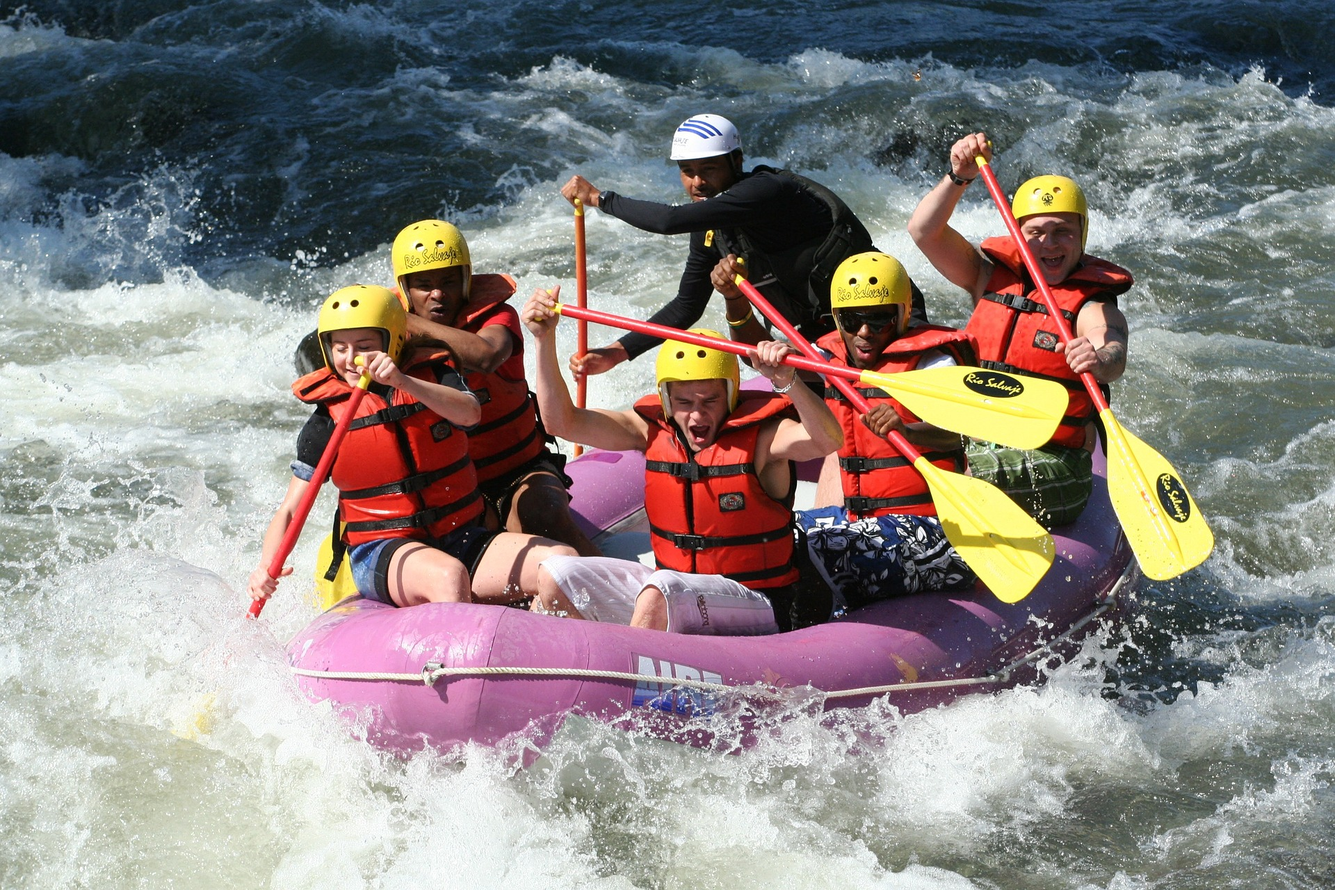
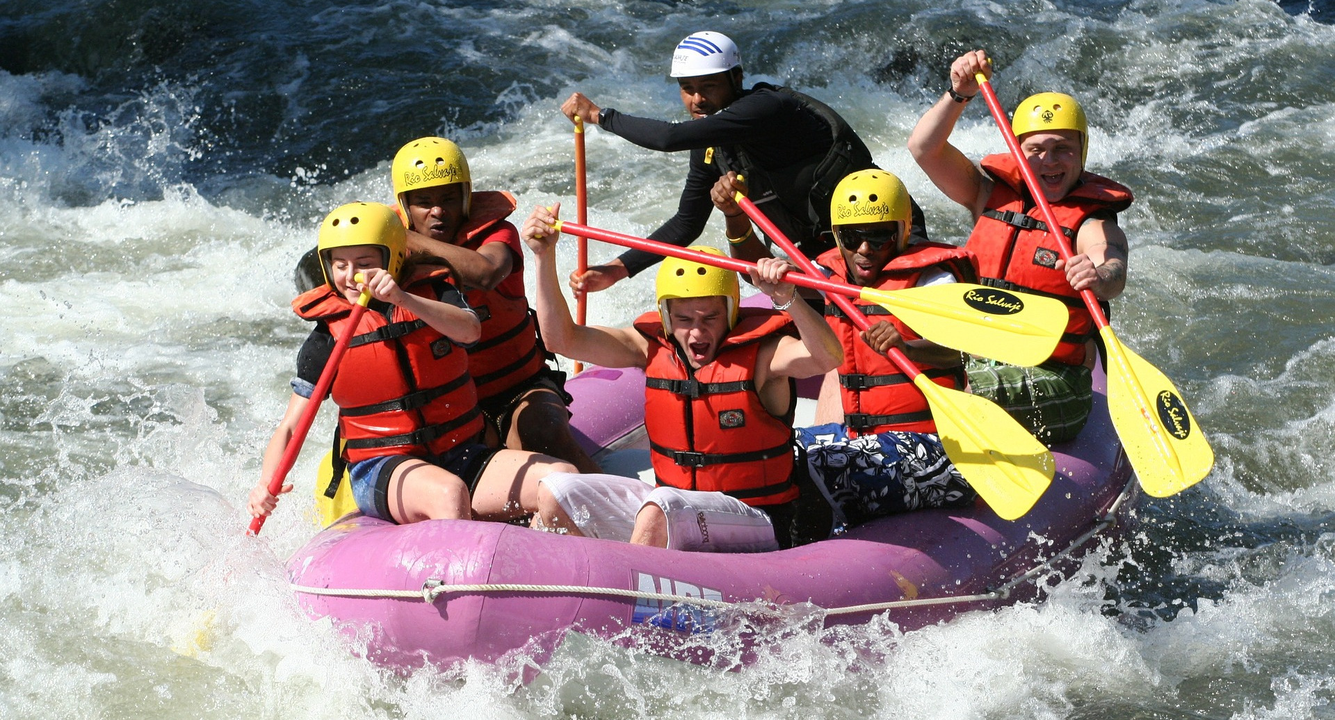
a

diff --git a/world/index.html b/world/index.html
@@ -4,7 +4,7 @@
 <head>
     <meta charset="UTF-8">
     <meta name="viewport" content="width=device-width, initial-scale=1.0">
-    <title>COVID-19  Verbreitung</title>
+    <title>COVID-19 Verbreitung</title>
 
     <link href="https://fonts.googleapis.com/css?family=Open+Sans" rel="stylesheet">
     <link rel="stylesheet" href="https://cdnjs.cloudflare.com/ajax/libs/font-awesome/5.11.2/css/all.min.css">
@@ -17,7 +17,6 @@
     <link rel="stylesheet" href="main.css">
     <script src="data.js"></script>
     <script defer src="main.js"></script>
-   
 </head>
 
 <body>
@@ -25,8 +24,10 @@
         <h2><i class="fas fa-map-marked"></i> COVID-19 Verbreitung <span id="datum"></span></h2>
         <nav>
             <p>
-                <i class="fab fa-github"></i> <a href="https://github.com/webmapping/csaw9279.github.io/world/index.html">Source</a> |
-                <i class="fas fa-download"></i> <a href="https://github.com/CSSEGISandData/COVID-19">COVID-Data</a>
+                <i class="fab fa-github"></i> <a href="https://github.com/webmapping/webmapping.github.io/tree/master/world">Source</a> |
+                <i class="fas fa-download"></i> <a href="https://github.com/CSSEGISandData/COVID-19">COVID-Data</a> |
+                <i class="fas fa-podcast"></i> <a href="https://brankej.github.io/projects/covid-19/">Live</a> |
+                <i class="fab fa-readme"></i> <a href="howto">HOWTO</a>
             </p>
         </nav>
     </header>

diff --git a/projf/index.html b/projf/index.html
@@ -25,6 +25,7 @@
 <body>
 
     <!-- navigationsleiste -->
+
     <div class="Navigationsleiste">
         <ul>
             <li style="font-weight: bold;"><a href="index.html">Rafting Tirol</a></li>
@@ -37,7 +38,7 @@
 
 
       <div style="text-align: right;">
-        <img src="images/header.jpg" style="width:100%;height: 701px; position: static;">
+        <img src="images/header.jpg" style="width:100%;height: 100%; position: static;">
         <div id="quelle">Quelle Bild: <a href="https://pixabay.com/de/photos/rafting-wildwasser-herausforderung-661716">Pixabay</a> </div>
       </div>
 
@@ -143,7 +144,7 @@
             </div>
         </div>
 
-        <div class="clearfix"></div>
+        
 
         <div class="responsive">
             <div class="gallery">
@@ -174,14 +175,14 @@
 
         <div class="responsive">
             <div class="gallery">
-                <a target="_blank" href="images/imgh.jpg">
+                <a target="_blank" href="images/imgah.jpg">
                     <img src="images/imgh.jpg" alt="Stubaital4" width="600" height="400">
                 </a>
                 <!-- <div class="desc">Add a description of the image here</div> -->
             </div>
         </div>
 
-        <div class="clearfix"></div>
+       
 
 
 

diff --git a/projf/map.html b/projf/map.html
@@ -47,7 +47,7 @@
 
 
 <div style="text-align: right;">
-    <img src="images/mapimage.jpg" style="width:100%;height: 600px; position: static;">
+    <img src="images/mapimage.jpg" style="width:100%;height: 100%; position: static;">
     <div id="quelle">Quelle Bild: <a href="https://pixabay.com/de/photos/rafting-fluss-wasser-sport-1377057/">Pixabay</a> </div>
   </div>
 

diff --git a/projf/main.css b/projf/main.css
@@ -1,7 +1,7 @@
 /* Generell*/
 
 body {
-  max-width: 1280px;
+  max-width: 1920px;
   margin: 0;
   font-family: "Karma";
   font-size: 18px;
@@ -362,4 +362,13 @@ h3 {
   font-size: 10px; 
   color: #fff;    
   text-align: end;          
+}
+
+xy
+
+#map {
+  width: 100%;
+  height: 900px;
+  border: 1px solid gray;
+  text-align: left;
 }

diff --git a/world/main.js b/world/main.js
@@ -66,7 +66,7 @@ let drawCircles = function () {
         let lng = row[3];
         let val = row[index];
 
-        if (val === "0") {
+        if (val == 0) {
             continue;
             //console.log(val)
         }
